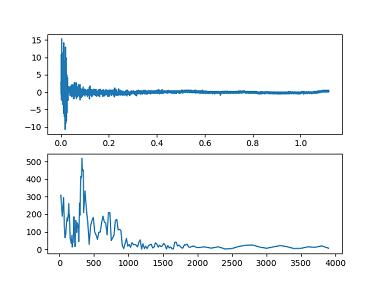
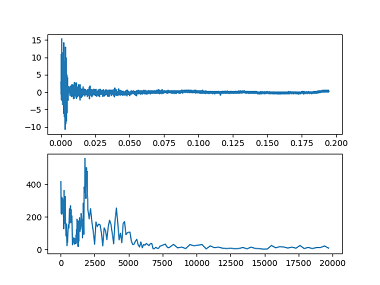
Fixed Sampling rate Error

diff --git a/PCMFeature.py b/PCMFeature.py
@@ -112,4 +112,5 @@ if(__name__=="__main__"):
 	x=np.array([np.array(data) for data in temp_x])
 	fouriers=[]
 	for i in range(len(x)):
-		fouriers.append(FourierTransform(x[i],7840,True))
+		print(y[i])
+		fouriers.append(FourierTransform(x[i],45000,True))
